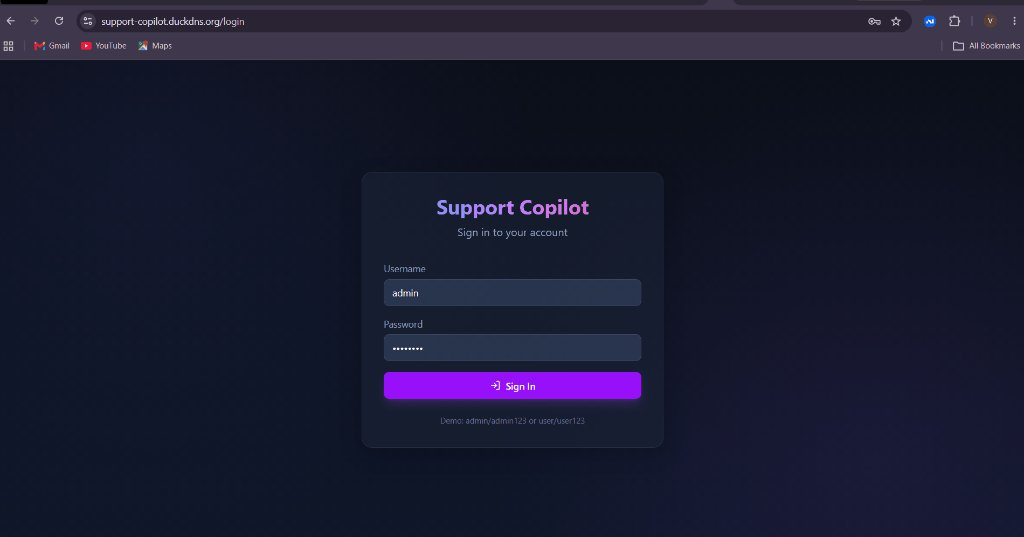
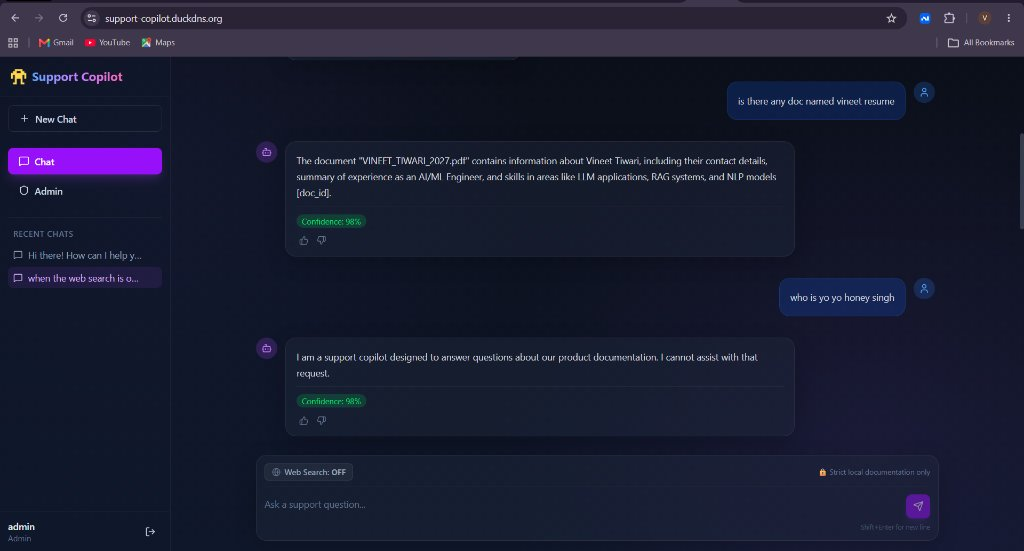
feat(projects): update Agentic Copilot preview image, bullets, and SafeChat title

diff --git a/index.html b/index.html
@@ -236,9 +236,9 @@
               <ul class="bullet-list">
                 <li><strong>Enterprise Agentic RAG Architecture:</strong> Engineered an enterprise Agentic RAG copilot using FastAPI, LangGraph, and Qdrant to automate technical documentation support with verifiable per-sentence source citations and zero hallucinations.</li>
                 <li><strong>Hybrid Search &amp; RRF Decomposition:</strong> Implemented Reciprocal Rank Fusion (RRF) and sub-query decomposition, resolving complex multi-topic customer queries and elevating Context Recall to <strong>100% (1.00)</strong> and Answer Correctness to <strong>85.3%</strong> on a 55-question golden benchmark.</li>
-                <li><strong>Semantic Caching Layer:</strong> Architected a Redis semantic caching layer with intent-keyword isolation (cosine similarity &ge; 0.94), achieving <strong>&lt; 100ms</strong> response times on repeated queries while preventing semantic cache bleed across distinct entities.</li>
-                <li><strong>Self-Correcting Reflection Loops:</strong> Designed self-correcting reflection loops using an LLM-as-a-Judge groundedness gate, cross-encoder reranking (Cohere + local ONNX FlashRank fallback), and regex guardrails that blocked <strong>100%</strong> of out-of-domain requests.</li>
-                <li><strong>Distributed Cloud Microservices:</strong> Deployed containerized microservices to AWS EC2 using Docker Compose, Caddy reverse-proxy (automated SSL), and an asynchronous Arq background task queue for non-blocking document ingestion and RAGAS evaluations.</li>
+                <li><strong>Semantic Caching Layer:</strong> Architected a Redis semantic vector cache with intent-keyword isolation (cosine similarity &ge; 0.94), achieving <strong>&lt; 50ms</strong> response times on repeated queries while completely eliminating cache bleed across distinct technical entities.</li>
+                <li><strong>Multi-Tier Guardrails &amp; Agentic Reflection:</strong> Designed self-correcting reflection loops with an LLM-as-a-Judge groundedness gate, cross-encoder reranking (Cohere + ONNX FlashRank), and 3-tier production guardrails (pre-retrieval filtering, real-time PII/secret redaction, and citation isolation on refusals), achieving <strong>100%</strong> out-of-domain interception with zero phantom citation leaks.</li>
+                <li><strong>Distributed Cloud Microservices:</strong> Deployed containerized microservices to AWS EC2 using Docker Compose, Caddy reverse-proxy (automated SSL), and an asynchronous Arq background worker queue for non-blocking document ingestion and RAGAS evaluations.</li>
               </ul>
             </div>
           </article>
@@ -249,7 +249,7 @@
               <img src="assets/safechat-preview.png" alt="SafeChat Moderation Dashboard Preview" class="artifact-media-img" loading="lazy">
             </div>
             <div class="artifact-top-bar">
-              <span class="artifact-name">SafeChat &mdash; Real-Time Multilingual Toxic Chat Moderation &amp; Detoxification System</span>
+              <span class="artifact-name">SafeChat &mdash; Multilingual Toxic Chat Moderation &amp; Detoxification System</span>
               <div class="artifact-links">
                 <a href="https://github.com/Vineetiitg/Real-time-Toxic-Chat-Moderation-System" target="_blank" rel="noopener noreferrer" class="link-item">GitHub &nearr;</a>
                 <a href="https://13-48-162-212.sslip.io" target="_blank" rel="noopener noreferrer" class="link-item highlight">Live Demo &nearr;</a>
